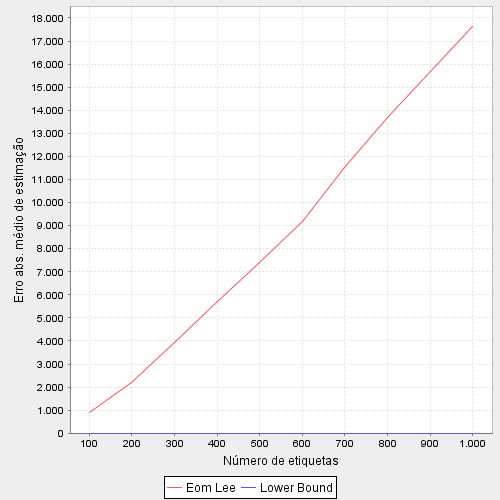
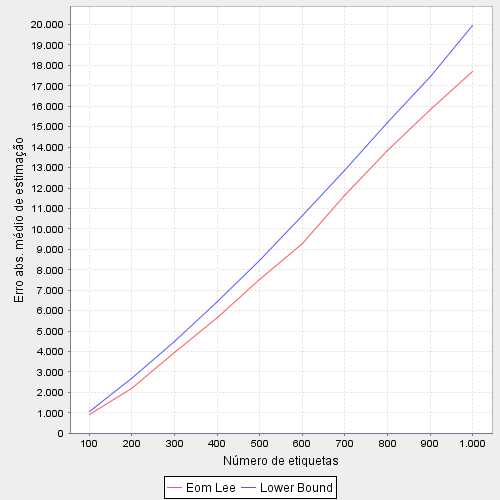
Tentando consertar erro absouluto

diff --git a/src/dfsa/DFSA.java b/src/dfsa/DFSA.java
@@ -82,7 +82,7 @@ public class DFSA {
 			this.updateEmptySlots(emptySlots);
 			this.updateTotalFrames();
 			this.updateTotalSlots(slotsNum);
-			this.updateEstimationError(Math.abs(tagNumber-tagsNum));
+			this.updateEstimationError(Math.abs((tagNumber-countMuted())-tagsNum));
 			
 			if( (collisionSlots == 0) && (successSlots == 0) ){
 				this.finish();
@@ -107,6 +107,17 @@ public class DFSA {
 				break;
 			}
 		}
+	}
+	
+	public int countMuted(){
+		
+		int muted = 0;
+		for(int i=0; i<tags.length; i++){
+			if(this.tags[i].isMuted()){
+				muted++;
+			}
+		}
+		return muted;
 	}
 	
 	private boolean isFinished(){
